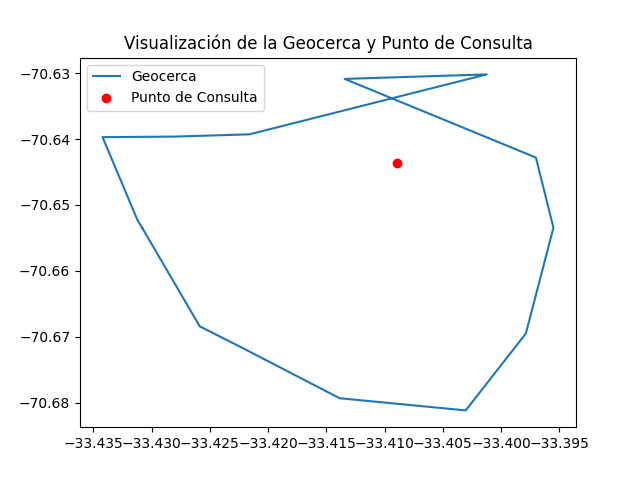
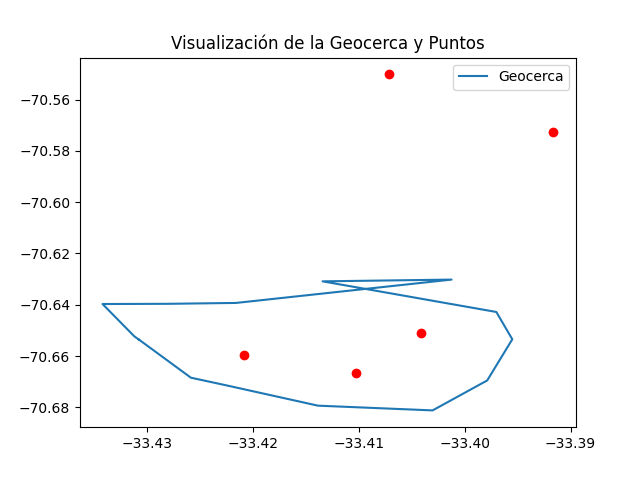
Nuevos métodos

diff --git a/src/app.py b/src/app.py
@@ -1,17 +1,27 @@
-from flask import Flask, jsonify, request
+from flask import Flask, jsonify, request, send_file
 from algorithms.heuristic_solver import simulated_annealing
 from algorithms.time_to_point import calcular_tiempo_desde_punto
-from models.point import Point
+from models.point import CustomPoint
+from algorithms.geofence import *
+from algorithms.distance_calculator import *
+from static.coords import geocerca
+import logging
+
+# Configura el logging
+logging.basicConfig(level=logging.DEBUG, format='%(asctime)s %(levelname)s:%(message)s')
+
 
 app = Flask(__name__)
 
 @app.route('/solve', methods=['POST'])
 def solve_route():
+    logging.debug("Endpoint /solve llamado")
     data = request.get_json()
+    logging.debug(f"Datos recibidos: {data}")
     start_point, delivery_points, final_point = data['startPoint'], data['deliveryPoints'], data['finalPoint']
-    start_point = Point(*start_point)
-    delivery_points = [Point(*point) for point in delivery_points]
-    final_point = Point(*final_point)
+    start_point = CustomPoint(*start_point)
+    delivery_points = [CustomPoint(*point) for point in delivery_points]
+    final_point = CustomPoint(*final_point)
     
     
     optimal_route_heuristic, optimal_distance_heuristic = simulated_annealing([start_point] + delivery_points + [final_point], start_temp=9999, alpha=0.998, num_iterations=9999)
@@ -28,8 +38,8 @@ def solve_route():
 @app.route('/calculate-time', methods=['POST'])
 def calculate_time_to_points():
     data = request.get_json()
-    punto_x = Point(*data['start_point'])
-    puntos_destino = [Point(*coords) for coords in data['map_points']]
+    punto_x = CustomPoint(*data['start_point'])
+    puntos_destino = [CustomPoint(*coords) for coords in data['map_points']]
     velocidad_promedio = data.get('velocidad_promedio', 35)  # 35 km/h por defecto si no se especifica
     tiempo_adicional_por_parada = data.get('tiempo_adicional_por_parada', 5)
 
@@ -38,6 +48,83 @@ def calculate_time_to_points():
 
     return jsonify(tiempos_formato)
     
+
+@app.route('/visualize-geofence', methods=['POST'])
+def visualize_geofence():
+    data = request.get_json()
+
+    raw_point_coords = data.get('point_coords')
+    processed_point_coords = []
+
+    if raw_point_coords:
+        for point in raw_point_coords:
+            logging.debug(f"Procesando punto: {point}, tipo: {type(point)}")
+            if isinstance(point, list) and len(point) == 4:
+                processed_point_coords.append(CustomPoint(*point))
+            else:
+                logging.error("Formato de punto incorrecto")
+                return {"error": "Formato de punto incorrecto"}, 400
+    else:
+        return {"error": "Coordenadas no proporcionadas"}, 400
+
+    image_path = 'geofence_visualization.png'
+
+    # Asumiendo que geocerca es una lista de coordenadas definida en algún lugar de tu código
+    if not geocerca:
+        return {"error": "Geocerca no proporcionada"}, 400
+
+    generate_geofence_image(geocerca, processed_point_coords, image_path)
+
+    return send_file(image_path, mimetype='image/png')
+
+
+@app.route('/check_points_in_geofence', methods=['POST'])
+def check_points_in_geofence():
+    data = request.get_json()
+    
+    # Extraer la geocerca y los puntos de la solicitud
+    points_to_check = data.get('points_to_check')
+
+    if not geocerca or not points_to_check:
+        return jsonify({"error": "Faltan datos de entrada"}), 400
+
+    checkeable_points = [CustomPoint(*point) for point in points_to_check]
+    # Llamar a la función para verificar los puntos
+    inside_geofence = are_points_within_geofence(geocerca, checkeable_points)
+
+    # Devolver los resultados
+    return jsonify({"inside_geofence": inside_geofence})
+
+
+@app.route('/find_furthest_point', methods=['POST'])
+def get_furthest_point():
+    data = request.get_json()
+
+    reference_data = data.get('reference_point')
+    points_data = data.get('other_points')
+
+    if not reference_data or not points_data:
+        return jsonify({"error": "Datos de entrada incompletos"}), 400
+
+    try:
+        reference_point = CustomPoint(*reference_data)
+        other_points = [CustomPoint(*point) for point in points_data]
+
+        furthest_point, max_distance = find_furthest_point(reference_point, other_points)
+
+        return jsonify({
+            "furthest_point": {
+                "id1": furthest_point.id1,
+                "id2": furthest_point.id2,
+                "latitude": furthest_point.x,
+                "longitude": furthest_point.y
+            },
+            "distance_km": max_distance
+        })
+    except Exception as e:
+        return jsonify({"error": str(e)}), 500
+
+
 
 if __name__ == '__main__':
     app.run(debug=True, host='0.0.0.0')

diff --git a/src/algorithms/geofence.py b/src/algorithms/geofence.py
@@ -1,33 +1,17 @@
-from shapely.geometry import Point, Polygon
+from shapely.geometry import Point as ShapelyPoint
+from shapely.geometry import Polygon
 import matplotlib.pyplot as plt
-
-def check_location_in_geofence(lat, lon):
-    coords = [
-            (-33.43077086160599, -70.65358943339982), 
-            (-33.42586179434257, -70.66844613427043), 
-            (-33.42234980832767, -70.6715805748797), 
-            (-33.413856129029476, -70.67935209478985),
-            (-33.403032042703956, -70.68119887987973),
-            (-33.39786958673203, -70.66952216368519),
-            (-33.39550025505101, -70.65346641243725),
-            (-33.397007069127824, -70.64281751984784),
-            (-33.40123843017137, -70.63019179734725),
-            (-33.4134245116657, -70.63087597921862),
-            (-33.42159569083892, -70.63929113879249),
-            (-33.42797349234883, -70.63963431927732),
-            (-33.43420895948136, -70.63971834901717),
-            (-33.43120055467563, -70.65234385048896),         
-            ]
-
-    geofence = Polygon(coords)
-    location = Point(lat, lon)
-
-    return geofence.contains(location)
+from models.point import *
 
 
-def generate_geofence_image(coords, points_coords, image_path):
+def are_points_within_geofence(geocerca, custom_points):
+    geofence = Polygon(geocerca)
+    return [(point.id1, point.id2, geofence.contains(ShapelyPoint(point.x, point.y))) for point in custom_points]
+
+
+def generate_geofence_image(geocerca, point_coords, image_path):
     # Crear un polígono para la geocerca
-    geofence = Polygon(coords)
+    geofence = Polygon(geocerca)
 
     # Preparar datos para el trazado de la geocerca
     x, y = geofence.exterior.xy
@@ -37,13 +21,11 @@ def generate_geofence_image(coords, points_coords, image_path):
     ax.plot(x, y, label='Geocerca')
 
     # Procesar cada punto en el arreglo de puntos
-    for point_coord in points_coords:
-        point = Point(point_coord)
-        point_x, point_y = point.x, point.y
-        ax.scatter(point_x, point_y, color='red')  # Puedes agregar una etiqueta si es necesario
+    for point in point_coords:
+        ax.scatter(point.x, point.y, color='red')  # Usar las propiedades x e y directamente
 
     # Configurar título y leyenda
-    ax.set_title("Visualización de la Geocerca y Puntos de Consulta")
+    ax.set_title("Visualización de la Geocerca y Puntos")
     ax.legend()
 
     # Guardar la imagen

diff --git a/src/models/point.py b/src/models/point.py
@@ -1,16 +1,18 @@
 import json
 import math
+import logging
 
 
-class Point:
+class CustomPoint:
     def __init__(self, id1, id2, x: float, y: float):
+        logging.debug(f"Creando Point con id1={id1}, id2={id2}, x={x}, y={y}")
         self.id1 = id1
         self.id2 = id2
         self.x = x
         self.y = y
 
     def __repr__(self):
-        return f"Point({self.id1}, {self.id2}, {self.x}, {self.y})"
+        return f"CustomPoint({self.id1}, {self.id2}, {self.x}, {self.y})"
 
     def distance_to(self, other_point) -> float:
         """Calcula la distancia entre este punto y otro usando la fórmula Haversine."""
@@ -39,18 +41,18 @@ class Point:
         return [self.id1, self.id2, self.x, self.y]
 
 
-def parse_point_from_string(point_str: str) -> Point:
-    """Convierte una cadena de texto en formato '[x, y]' a un objeto Point."""
-    x, y = eval(point_str)
-    return Point(x, y)
+def parse_point_from_string(point_str: str) -> CustomPoint:
+    """Convierte una cadena de texto en formato '[id1, id2, x, y]' a un objeto Point."""
+    id1, id2, x, y = eval(point_str)
+    return CustomPoint(id1, id2, x, y)
 
 
 def read_points_from_file(filepath):
     with open(filepath, 'r') as file:
         data = json.load(file)
     
-    start_point = Point(*data['startPoint'])
-    delivery_points = [Point(*point) for point in data['deliveryPoints']]
-    final_point = Point(*data['finalPoint'])
+    start_point = CustomPoint(*data['startPoint'])
+    delivery_points = [CustomPoint(*point) for point in data['deliveryPoints']]
+    final_point = CustomPoint(*data['finalPoint'])
     
     return start_point, delivery_points, final_point

diff --git a/src/static/coords.py b/src/static/coords.py
@@ -1,0 +1,16 @@
+geocerca = [
+                [-33.43077086160599, -70.65358943339982], 
+                [-33.42586179434257, -70.6684461342704], 
+                [-33.42234980832767, -70.6715805748797], 
+                [-33.413856129029476, -70.67935209478985],
+                [-33.403032042703956, -70.68119887987973],
+                [-33.39786958673203, -70.66952216368519],
+                [-33.39550025505101, -70.65346641243725],
+                [-33.397007069127824, -70.64281751984784],
+                [-33.4134245116657, -70.63087597921862],
+                [-33.40123843017137, -70.63019179734725],
+                [-33.42159569083892, -70.63929113879249],
+                [-33.42797349234883, -70.63963431927732],
+                [-33.43420895948136, -70.63971834901717],
+                [-33.43120055467563, -70.65234385048896]
+        ]

diff --git a/src/algorithms/time_to_point.py b/src/algorithms/time_to_point.py
@@ -1,12 +1,12 @@
-from models.point import Point
+from models.point import CustomPoint
 
 def calcular_tiempo_desde_punto(punto_x, puntos_destino, velocidad_promedio, tiempo_adicional_por_parada):
     """
     Calcula el tiempo estimado desde un punto X hasta cada punto en una lista de destinos,
     añadiendo un tiempo adicional en cada parada.
 
-    :param punto_x: Punto de origen (Point).
-    :param puntos_destino: Lista de puntos de destino (Point).
+    :param punto_x: Punto de origen (CustomPoint).
+    :param puntos_destino: Lista de puntos de destino (CustomPoint).
     :param velocidad_promedio: Velocidad promedio de viaje en km/h.
     :param tiempo_adicional_por_parada: Tiempo adicional en cada parada (en minutos).
     :return: Lista de tiempos estimados para llegar a cada punto de destino desde punto X,

diff --git a/src/models/package.py b/src/models/package.py
@@ -1,13 +1,15 @@
 import json
 
 class Paquete:
-    def __init__(self, id: str, peso: float, volumen: float, bultos: int, direccion_destino: str, identificador_adicional: str):
+    def __init__(self, id: str, peso: float, volumen: float, bultos: int, direccion_destino: str, identificador_adicional: str, estado_asignacion: str, id_estado_paquete: str):
         self.id = id
         self.peso = peso
         self.volumen = volumen
         self.bultos = bultos
         self.direccion_destino = direccion_destino
         self.identificador_adicional = identificador_adicional
+        self.estado_asignacion = estado_asignacion
+        self.id_estado_paquete = id_estado_paquete
         # Puedes añadir más atributos si son necesarios
 
     def __repr__(self):

diff --git a/src/algorithms/distance_calculator.py b/src/algorithms/distance_calculator.py
@@ -1,0 +1,11 @@
+def find_furthest_point(reference_point, other_points):
+    furthest_point = None
+    max_distance = 0
+
+    for point in other_points:
+        distance = reference_point.distance_to(point)
+        if distance > max_distance:
+            max_distance = distance
+            furthest_point = point
+
+    return furthest_point, max_distance

diff --git a/src/algorithms/heuristic_solver.py b/src/algorithms/heuristic_solver.py
@@ -1,7 +1,7 @@
 import random
 import math
 import logging
-from models.point import Point, read_points_from_file
+from models.point import *
 
 # Configura el logging para mostrar mensajes debug
 logging.basicConfig(level=logging.DEBUG, format='%(asctime)s - %(levelname)s - %(message)s')
